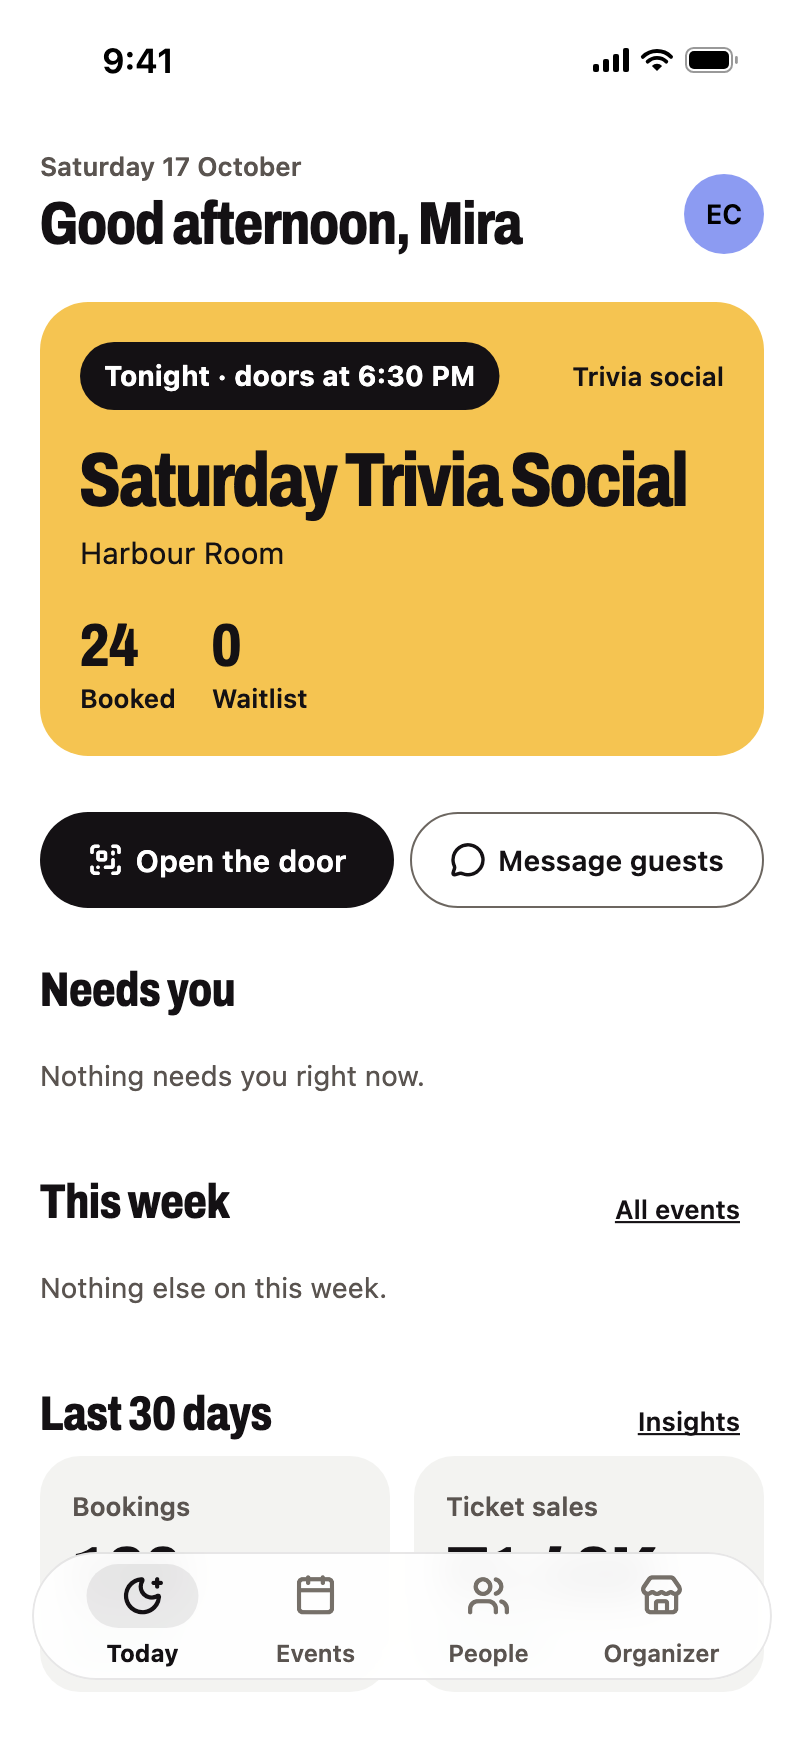
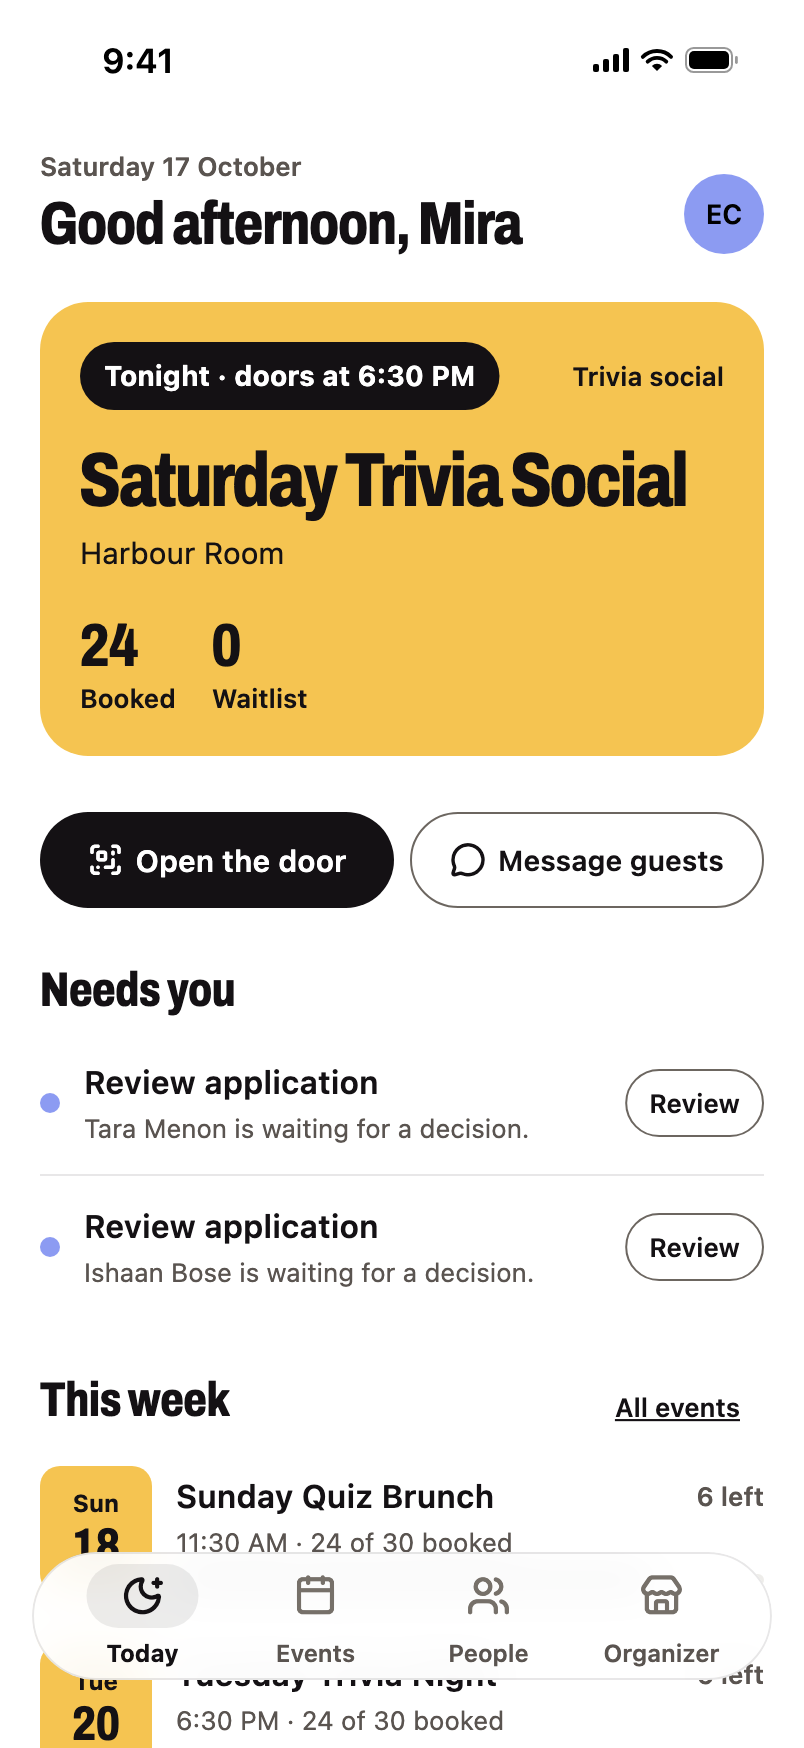
Website screenshots: frames match their words; Today and the report render full
Re-renders host-today with two applications waiting and two more events
this week, and host-post-event-report with three reviews, new faces and
next Saturday's social. Adds host-post-event-report-more, the same report
scrolled to the bring-back card. Swaps nine playbook frames whose
screenshot repeated another on the page or showed the wrong app.

diff --git a/test/ui_captures/catalog/shared/marketing_host_report_data.dart b/test/ui_captures/catalog/shared/marketing_host_report_data.dart
@@ -1,0 +1,92 @@
+// Capture fixtures shared by more than one catalog entry. Only the entries
+// that import this file depend on it.
+
+import 'package:catch_dating_app/contexts/audience/data/crm/host_contacts_repository.dart';
+import 'package:catch_dating_app/contexts/audience/domain/crm/host_event_roster_insights.dart';
+import 'package:catch_dating_app/contexts/events/data/event_repository.dart';
+import 'package:catch_dating_app/contexts/events/domain/event.dart';
+import 'package:catch_dating_app/contexts/reviews/domain/review.dart';
+import '../../fixtures/sales_demo_synthetic_fixtures.dart';
+import 'capture_fixtures.dart';
+import 'marketing_host_report_event.dart';
+
+/// The guests who came, by name, in the order they checked in.
+final _cameNames = [
+  for (final guest in hostMarketingIndiaScenario.guestsAt('live'))
+    if (guest.checkedInAt != null)
+      captureFixtures.publicProfile(guest.personaId).name,
+];
+
+/// What guests said the morning after the trivia social: the report shows
+/// the newest two and the average of all three.
+final marketingHostReportReviews = <Review>[
+  for (final (index, (rating, comment)) in const [
+    (
+      5,
+      'Our table had never met before 7:30 and we came second. Back next Saturday.',
+    ),
+    (
+      5,
+      'The prompts between rounds got everyone talking. Easiest night out in ages.',
+    ),
+    (4, 'Great hosts and a good crowd. The music round was brutal.'),
+  ].indexed)
+    Review(
+      id: 'host-marketing-india-review-$index',
+      organizerId: marketingHostReportEvent.organizerId,
+      eventId: marketingHostReportEvent.id,
+      reviewerName: _cameNames[index],
+      rating: rating,
+      comment: comment,
+      createdAt: hostMarketingIndiaScenario
+          .clock('followUp')
+          .subtract(Duration(minutes: 20 + index * 35)),
+    ),
+];
+
+/// Next Saturday's social, so the report can offer to bring this crowd back.
+final marketingHostNextEvent = marketingHostReportEvent.copyWith(
+  id: 'host-marketing-india-next-social',
+  startTime: marketingHostReportEvent.startTime.add(const Duration(days: 7)),
+  endTime: marketingHostReportEvent.endTime.add(const Duration(days: 7)),
+);
+
+/// Who was new: most of the room had never been to one of this host's nights.
+HostEventRosterInsights marketingHostReportInsights(Event event) =>
+    HostEventRosterInsights(
+      eventId: event.id,
+      organizerId: event.organizerId,
+      cutoffAt: event.startTime,
+      sourceCoverage: HostRosterInsightCoverage.exact,
+      spendCoverage: HostRosterSpendCoverage.catchPaymentsOnly,
+      rows: [
+        for (final (index, _) in _cameNames.indexed)
+          HostEventRosterInsight(
+            attendeeId: 'marketing-india-attendee-$index',
+            contactId: null,
+            availability: HostRosterInsightAvailability.ready,
+            signals: {
+              index % 3 == 2
+                  ? HostRosterInsightSignal.returning
+                  : HostRosterInsightSignal.firstTime,
+            },
+            priorAttendedEventCount: index % 3 == 2 ? 2 : 0,
+            priorExpectedEventCount: index % 3 == 2 ? 2 : 0,
+            priorNoShowCount: 0,
+            lastAttendedAt: null,
+            attendanceRate: null,
+            catchSpend: const [],
+          ),
+      ],
+      computedAt: hostMarketingIndiaScenario.clock('followUp'),
+    );
+
+/// The report's reads beyond the manage overrides: who was new and what's next.
+List<Object> marketingHostReportOverrides(Event event) => [
+  hostEventRosterInsightsProvider(
+    event.id,
+  ).overrideWith((ref) => Stream.value(marketingHostReportInsights(event))),
+  watchActiveEventsForOrganizerProvider.overrideWith(
+    (ref, query) => Stream.value([marketingHostNextEvent]),
+  ),
+];

diff --git a/test/ui_captures/catalog/entries/host_home_dashboard.dart b/test/ui_captures/catalog/entries/host_home_dashboard.dart
@@ -1,7 +1,8 @@
-// Marketi// Marketi// Marketing// Marketing // Marketing // Marketing capt// Marketing capture `// Marketing capture `host_home_dashboard`. One file per marketing capture keeps each
+// Marketing capture `host_home_dashboard`. One file per marketing capture keeps each
 // capture's inputs to its own imports; see docs/marketing_app_media_pipeline.md.
 
 import 'package:catch_dating_app/contexts/events/domain/event.dart';
+import 'package:catch_dating_app/contexts/insights/domain/host_attention_item.dart';
 import 'package:catch_dating_app/design_fixtures/host_operations_fixtures.dart';
 import 'package:catch_dating_app/hosts/today/host_today_screen.dart';
 import 'package:flutter_riverpod/flutter_riverpod.dart' show AsyncData;
@@ -28,7 +29,11 @@ final hostHomeDashboardCapture = ScreenCaptureEntry(
       organizerEvents: {
         marketingHostOrganizer.id: AsyncData<List<Event>>([
           _marketingHostTodayEvent,
+          ..._marketingHostWeekEvents,
         ]),
+      },
+      attentionByOrganizer: {
+        marketingHostOrganizer.id: _marketingHostTodayAttention,
       },
     ),
   ],
@@ -45,3 +50,55 @@ final _marketingHostTodayEvent = hostMarketingIndiaScenario.event(
   captureFixtures,
   'hostToday',
 );
+
+/// The rest of the host's week, so Today shows more than tonight: a quiz
+/// brunch tomorrow and a trivia night on Tuesday.
+final _marketingHostWeekEvents = [
+  for (final (id, name, days, hours) in const [
+    ('host-marketing-india-sunday-brunch', 'Sunday Quiz Brunch', 1, -7),
+    ('host-marketing-india-tuesday-trivia', 'Tuesday Trivia Night', 3, 0),
+  ])
+    _marketingHostTodayEvent.copyWith(
+      id: id,
+      name: name,
+      startTime: _marketingHostTodayEvent.startTime.add(
+        Duration(days: days, hours: hours),
+      ),
+      endTime: _marketingHostTodayEvent.endTime.add(
+        Duration(days: days, hours: hours),
+      ),
+    ),
+];
+
+/// What needs the host before doors: two people waiting on a decision about
+/// their application to the organiser's members' list.
+final _marketingHostTodayAttention = [
+  for (final (index, name) in const ['Tara Menon', 'Ishaan Bose'].indexed)
+    HostAttentionItem(
+      id: 'marketing-today-application-$index',
+      kind: HostAttentionKind.applicationReview,
+      scope: HostAttentionScope.application,
+      sourceOwner: HostAttentionSourceOwner.organizerApplications,
+      sourceId: 'marketing-today-application-$index',
+      sourceRevision: 'capture-1',
+      eventId: null,
+      status: HostAttentionStatus.open,
+      consequence: HostAttentionConsequence.delaysResponse,
+      blocking: false,
+      urgency: HostAttentionUrgency.soon,
+      destination: HostAttentionDestination(
+        route: HostAttentionDestinationRoute.hostApplications,
+        applicationId: 'marketing-today-application-$index',
+      ),
+      context: HostAttentionContext(subjectLabel: name),
+      dedupeKey: 'applicationReview:marketing-today-application-$index',
+      policyVersion: 1,
+      resolutionVersion: 1,
+      assignedHostUid: null,
+      openedAt: hostMarketingIndiaScenario
+          .clock('today')
+          .subtract(Duration(hours: 3 + index * 2)),
+      dueAt: _marketingHostTodayEvent.startTime,
+      expiresAt: null,
+    ),
+];

diff --git a/test/ui_captures/catalog/entries/host_post_event_report_more.dart b/test/ui_captures/catalog/entries/host_post_event_report_more.dart
@@ -1,0 +1,51 @@
+// Marketing capture `host_post_event_report_more`. One file per marketing capture keeps each
+// capture's inputs to its own imports; see docs/marketing_app_media_pipeline.md.
+
+import 'package:catch_dating_app/hosts/insights/host_event_report_screen.dart';
+import 'package:flutter/widgets.dart';
+import 'package:flutter_test/flutter_test.dart';
+import '../../../test_pump_helpers.dart';
+import '../../fixtures/sales_demo_synthetic_fixtures.dart';
+import '../../support/capture_device.dart';
+import '../screen_capture_entry.dart';
+import '../shared/marketing_host_live.dart';
+import '../shared/marketing_host_organizer.dart';
+import '../shared/marketing_host_report_data.dart';
+import '../shared/marketing_host_report_event.dart';
+
+/// The same report as `host_post_event_report`, scrolled to what guests said
+/// and the offer to bring this crowd back to the next event, so a page that
+/// shows the report twice shows two different parts of it.
+final hostPostEventReportMoreCapture = ScreenCaptureEntry(
+  id: 'host_post_event_report_more',
+  routeIds: const <String>['hostAppEventManageScreen'],
+  device: CaptureDevice.iphone17Pro,
+  marketingFixtureKeys: const <String>[
+    'hostMarketingIndia.host.postEventReportMore',
+  ],
+  providerOverrides: [
+    ...marketingHostManageOverrides(
+      marketingHostReportEvent,
+      complete: true,
+      reviews: marketingHostReportReviews,
+    ),
+    ...marketingHostReportOverrides(marketingHostReportEvent),
+  ],
+  builder: (context) => HostEventReportScreen(
+    organizer: marketingHostOrganizer,
+    event: marketingHostReportEvent,
+    now: hostMarketingIndiaScenario.clock('followUp'),
+  ),
+  drive: (tester) async {
+    await tester.scrollUntilVisible(
+      find.byKey(const ValueKey<String>('host-event-report-bring-back')),
+      240,
+      scrollable: findVerticalScrollable(
+        within: find.byKey(
+          const ValueKey<String>('host-event-report-scroll-view'),
+        ),
+      ),
+    );
+    await pumpFeatureUi(tester);
+  },
+);

diff --git a/test/ui_captures/catalog/screen_capture_catalog.dart b/test/ui_captures/catalog/screen_capture_catalog.dart
@@ -319,6 +319,7 @@ import 'entries/host_organizer_team_phone.dart';
 import 'entries/host_people_phone.dart';
 import 'entries/host_person_phone.dart';
 import 'entries/host_post_event_report.dart';
+import 'entries/host_post_event_report_more.dart';
 import 'entries/host_programme_guests_desktop.dart';
 import 'entries/host_programme_inbox_phone.dart';
 import 'entries/host_programme_live_board_desktop.dart';
@@ -6842,6 +6843,7 @@ final marketingScreenCaptures = <String, ScreenCaptureEntry Function()>{
   'member_event_discovery': () => memberEventDiscoveryCapture,
   'host_live_console': () => hostLiveConsoleCapture,
   'host_post_event_report': () => hostPostEventReportCapture,
+  'host_post_event_report_more': () => hostPostEventReportMoreCapture,
   'guest_after_event': () => guestAfterEventCapture,
   'host_insights_phone': () => hostInsightsPhoneCapture,
   'host_application_detail': () => hostApplicationDetailCapture,
@@ -10831,6 +10833,7 @@ final screenCaptureCatalog = <ScreenCaptureEntry>[
   ),
   hostLiveConsoleCapture,
   hostPostEventReportCapture,
+  hostPostEventReportMoreCapture,
 
   ScreenCaptureEntry(
     id: 'notifications_activity',

diff --git a/test/ui_captures/catalog/entries/host_post_event_report.dart b/test/ui_captures/catalog/entries/host_post_event_report.dart
@@ -7,6 +7,7 @@ import '../../support/capture_device.dart';
 import '../screen_capture_entry.dart';
 import '../shared/marketing_host_live.dart';
 import '../shared/marketing_host_organizer.dart';
+import '../shared/marketing_host_report_data.dart';
 import '../shared/marketing_host_report_event.dart';
 
 final hostPostEventReportCapture = ScreenCaptureEntry(
@@ -16,10 +17,14 @@ final hostPostEventReportCapture = ScreenCaptureEntry(
   marketingFixtureKeys: const <String>[
     'hostMarketingIndia.host.postEventReport',
   ],
-  providerOverrides: marketingHostManageOverrides(
-    marketingHostReportEvent,
-    complete: true,
-  ),
+  providerOverrides: [
+    ...marketingHostManageOverrides(
+      marketingHostReportEvent,
+      complete: true,
+      reviews: marketingHostReportReviews,
+    ),
+    ...marketingHostReportOverrides(marketingHostReportEvent),
+  ],
   builder: (context) => HostEventReportScreen(
     organizer: marketingHostOrganizer,
     event: marketingHostReportEvent,

diff --git a/test/ui_captures/catalog/shared/marketing_host_live.dart b/test/ui_captures/catalog/shared/marketing_host_live.dart
@@ -74,13 +74,14 @@ EventSuccessPlan marketingHostPlan(Event event, {bool complete = false}) =>
 List<Object> marketingHostManageOverrides(
   Event event, {
   bool complete = false,
+  List<Review> reviews = const <Review>[],
 }) => [
   uidProvider.overrideWith((ref) => Stream.value(captureViewerUid)),
   watchUserProfileProvider.overrideWith((ref) => Stream.value(captureViewer)),
   watchEventProvider(event.id).overrideWith((ref) => Stream.value(event)),
   watchReviewsForEventProvider(
     event.id,
-  ).overrideWith((ref) => Stream.value(const <Review>[])),
+  ).overrideWith((ref) => Stream.value(reviews)),
   eventParticipationRepositoryProvider.overrideWithValue(
     marketingHostParticipationRepository,
   ),
